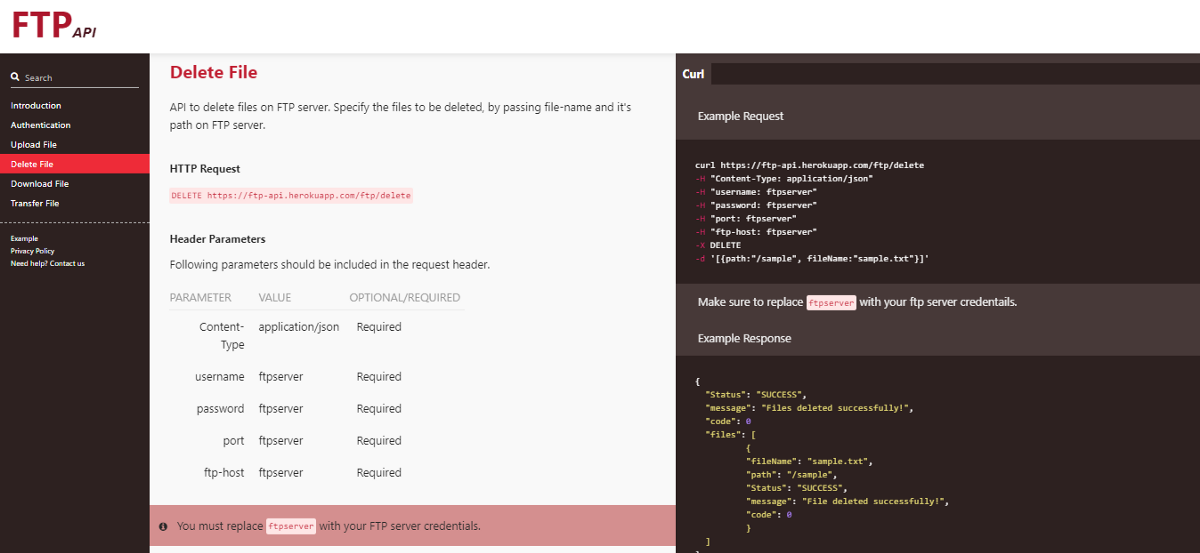
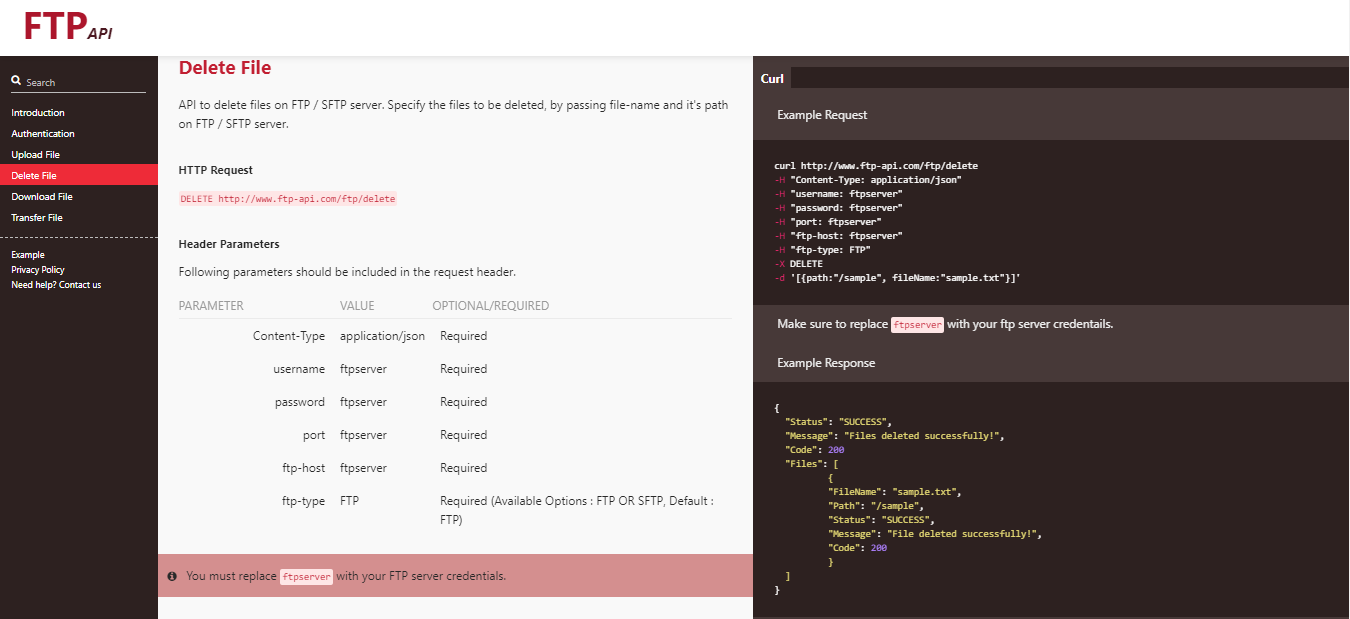
Added new Features

Changed region(s): [[0.0, 0.0, 1.0, 1.0], [0.1542, 0.5841, 0.5242, 0.8608]]

diff --git a/README.md b/README.md
@@ -1,4 +1,4 @@
-# [FTP API](https://ftp-api.herokuapp.com/)
+# [FTP API](https://www.ftp-api.com/)
 
 In this tutorial, we will see how we can directly communicate with FTP server using REST API. It solve's problem like using FTP server from salesforce or other platforms using http callouts.
 
@@ -14,7 +14,7 @@ This API allow us to upload files on FTP Server. User can upload single or multi
 
 ```
 HTTP Request
-POST https://ftp-api.herokuapp.com/ftp/upload
+POST https://www.ftp-api.com/ftp/upload
 ```
 
 ![alt text](https://github.com/ftprestapi/ftp-api-example/raw/master/images/upload.png "Upload")
@@ -25,7 +25,7 @@ This API allow to delete files on FTP server. Specify the files to be deleted, b
 
 ```
 HTTP Request
-DELETE https://ftp-api.herokuapp.com/ftp/delete
+DELETE https://www.ftp-api.com/ftp/delete
 ```
 
 ![alt text](https://github.com/ftprestapi/ftp-api-example/raw/master/images/delete.png "Delete")
@@ -40,7 +40,7 @@ Second, the user can specify the files which are needed, so the API will return 
 
 ```
 HTTP Request
-GET https://ftp-api.herokuapp.com/ftp/download
+GET https://www.ftp-api.com/ftp/download
 ```
 
 ![alt text](https://github.com/ftprestapi/ftp-api-example/raw/master/images/download.png "Download")
@@ -53,7 +53,7 @@ Note: This API requires both source and destination FTP server authentication.
 
 ```
 HTTP Request
-POST https://ftp-api.herokuapp.com/ftp/transfer
+POST https://www.ftp-api.com/ftp/transfer
 ```
 
 ![alt text](https://github.com/ftprestapi/ftp-api-example/raw/master/images/transfer.png "Transfer")
